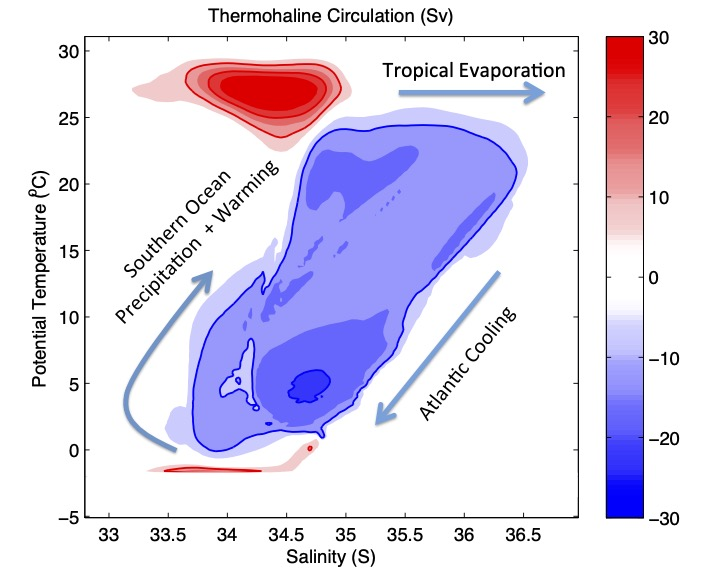
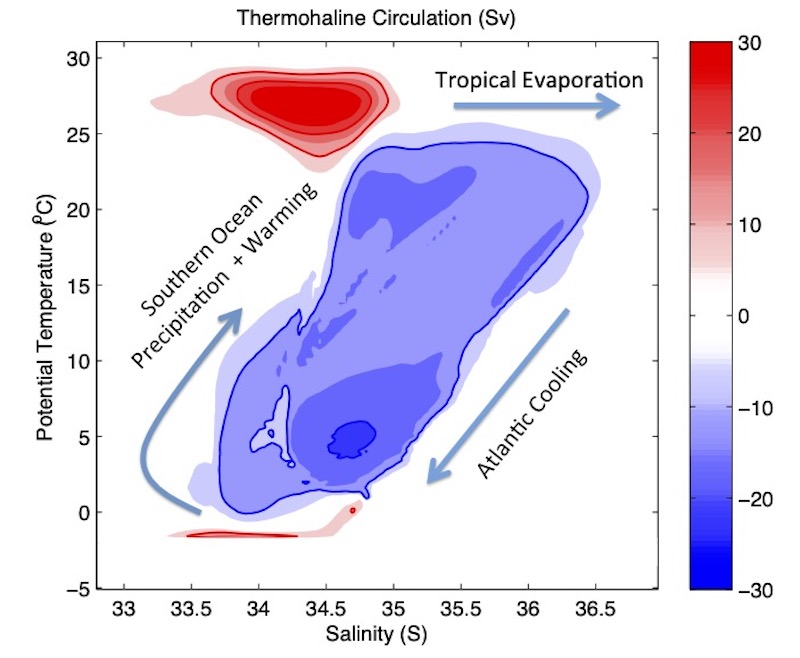
Remove figure duplicate + try jpg image for TS streamfunction

diff --git a/index.md b/index.md
@@ -49,7 +49,7 @@ We carry out fundamental research into the role of the ocean and water in the ch
 
 {%
   include feature.html
-  image="images/CCSM4_TS_preind.png"
+  image="images/CCSM4_TS_preind.jpg"
   link="research"
   title="Our Research"
   flip=true
